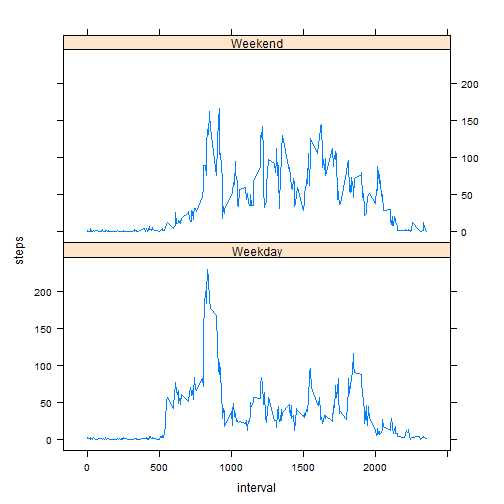
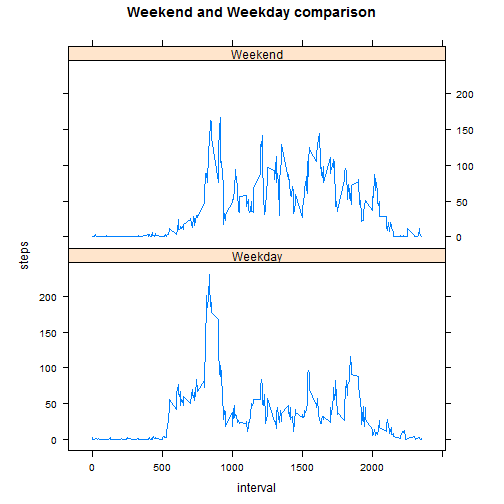
Assignment 1 ver 3

diff --git a/PA1_Template.html b/PA1_Template.html
@@ -212,10 +212,10 @@ data1 &lt;- transform(data, date &lt;- factor(date))
 <p>Histogram of the total number of steps taken each day</p>
 
 <pre><code class="r">steps &lt;- aggregate(steps ~ date, data1, sum, na.rm = TRUE)
-hist(steps$steps,plot=TRUE, main=&quot;Histogram of Total Steps by day&quot;)
+hist(steps$steps,plot=TRUE, main=&quot;Histogram of Total Steps with NA ignored&quot;)
 </code></pre>
 
[2 lines of base64/hex data omitted]
 
 <pre><code class="r">##barplot(steps, main=&quot;# steps by day&quot;, xlab=&quot;Date&quot;, ylab=&quot;Total Steps&quot;)
 </code></pre>
@@ -239,10 +239,10 @@ hist(steps$steps,plot=TRUE, main=&quot;Histogram of Total Steps by day&quot;)
 <p>1.Make a time series plot (i.e. type = &ldquo;l&rdquo;) of the 5-minute interval (x-axis) and the average number of steps taken, averaged across all days (y-axis)</p>
 
 <pre><code class="r">stepsbyinterval &lt;- aggregate(steps ~ interval, data1, mean)
-plot(stepsbyinterval$interval, stepsbyinterval$steps,type=&quot;l&quot;, main=&quot;Total Steps by interval&quot;)
+plot(stepsbyinterval$interval, stepsbyinterval$steps,type=&quot;l&quot;, main=&quot;Total Steps by Interval&quot;)
 </code></pre>
 
[2 lines of base64/hex data omitted]
 
 <ol>
 <li>Which 5-minute interval, on average across all the days in the dataset,contains the maximum number of steps?</li>
@@ -290,10 +290,10 @@ for (i in 1:nrow(data2))
 <p>4.Make a histogram of the total number of steps taken each day and Calculate and report the mean and median total number of steps taken per day</p>
 
 <pre><code class="r">stepsfilled &lt;- aggregate(steps ~ date, data2, sum)
-hist(stepsfilled$steps,plot=TRUE, main=&quot;Histogram of Total Steps by day after NA replaced&quot;)
+hist(stepsfilled$steps,plot=TRUE, main=&quot;Histogram of Total Steps by day NA replaced&quot;)
 </code></pre>
 
[2 lines of base64/hex data omitted]
 
 <pre><code class="r">mean(stepsfilled$steps)
 </code></pre>
@@ -334,15 +334,17 @@ data2 &lt;- transform(data2, day=factor(day))
 </code></pre>
 
 <ol>
-<li>Make a panel plot containing a time series plot (i.e. type = &ldquo;l&rdquo;) of the 5-minute interval (x-axis) and the average number of steps taken, averaged across all weekday days or weekend days (y-axis).</li>
+<li>Make a panel plot containing a time series plot (i.e. type = &ldquo;l&rdquo;) of the 5-minute interval (x-axis) and the average number of steps taken, averaged across all weekday days or weekend days (y-axis). </li>
 </ol>
 
 <pre><code class="r">stepsbyintervalDay &lt;- aggregate(steps ~ interval + day, data2, mean)
 library(lattice)
-xyplot(steps ~ interval | day, data = stepsbyintervalDay, type = &quot;l&quot;, aspect=1/2)
+xyplot(steps ~ interval | day, data = stepsbyintervalDay, type = &quot;l&quot;, aspect=1/2, main=&quot;Weekend and Weekday comparison&quot;)
 </code></pre>
 
[2 lines of base64/hex data omitted]
+
+<p>This is the end.</p>
 
 </body>
 

diff --git a/PA1_Template.md b/PA1_Template.md
@@ -16,7 +16,7 @@ Histogram of the total number of steps taken each day
 
 ```r
 steps <- aggregate(steps ~ date, data1, sum, na.rm = TRUE)
-hist(steps$steps,plot=TRUE, main="Histogram of Total Steps by day")
+hist(steps$steps,plot=TRUE, main="Histogram of Total Steps with NA ignored")
 ```
 
 ![plot of chunk unnamed-chunk-2](figure/unnamed-chunk-2.png) 
@@ -50,7 +50,7 @@ median(steps$steps)
 
 ```r
 stepsbyinterval <- aggregate(steps ~ interval, data1, mean)
-plot(stepsbyinterval$interval, stepsbyinterval$steps,type="l", main="Total Steps by interval")
+plot(stepsbyinterval$interval, stepsbyinterval$steps,type="l", main="Total Steps by Interval")
 ```
 
 ![plot of chunk unnamed-chunk-4](figure/unnamed-chunk-4.png) 
@@ -101,7 +101,7 @@ for (i in 1:nrow(data2))
 
 ```r
 stepsfilled <- aggregate(steps ~ date, data2, sum)
-hist(stepsfilled$steps,plot=TRUE, main="Histogram of Total Steps by day after NA replaced")
+hist(stepsfilled$steps,plot=TRUE, main="Histogram of Total Steps by day NA replaced")
 ```
 
 ![plot of chunk unnamed-chunk-8](figure/unnamed-chunk-8.png) 
@@ -151,13 +151,15 @@ data2$day <- ifelse(data2$DOW %in% c("Saturday", "Sunday"), "Weekend","Weekday")
 data2 <- transform(data2, day=factor(day))
 ```
 
-2. Make a panel plot containing a time series plot (i.e. type = "l") of the 5-minute interval (x-axis) and the average number of steps taken, averaged across all weekday days or weekend days (y-axis).
+2. Make a panel plot containing a time series plot (i.e. type = "l") of the 5-minute interval (x-axis) and the average number of steps taken, averaged across all weekday days or weekend days (y-axis). 
 
 
 ```r
 stepsbyintervalDay <- aggregate(steps ~ interval + day, data2, mean)
 library(lattice)
-xyplot(steps ~ interval | day, data = stepsbyintervalDay, type = "l", aspect=1/2)
+xyplot(steps ~ interval | day, data = stepsbyintervalDay, type = "l", aspect=1/2, main="Weekend and Weekday comparison")
 ```
 
 ![plot of chunk unnamed-chunk-10](figure/unnamed-chunk-10.png) 
+
+This is the end.
